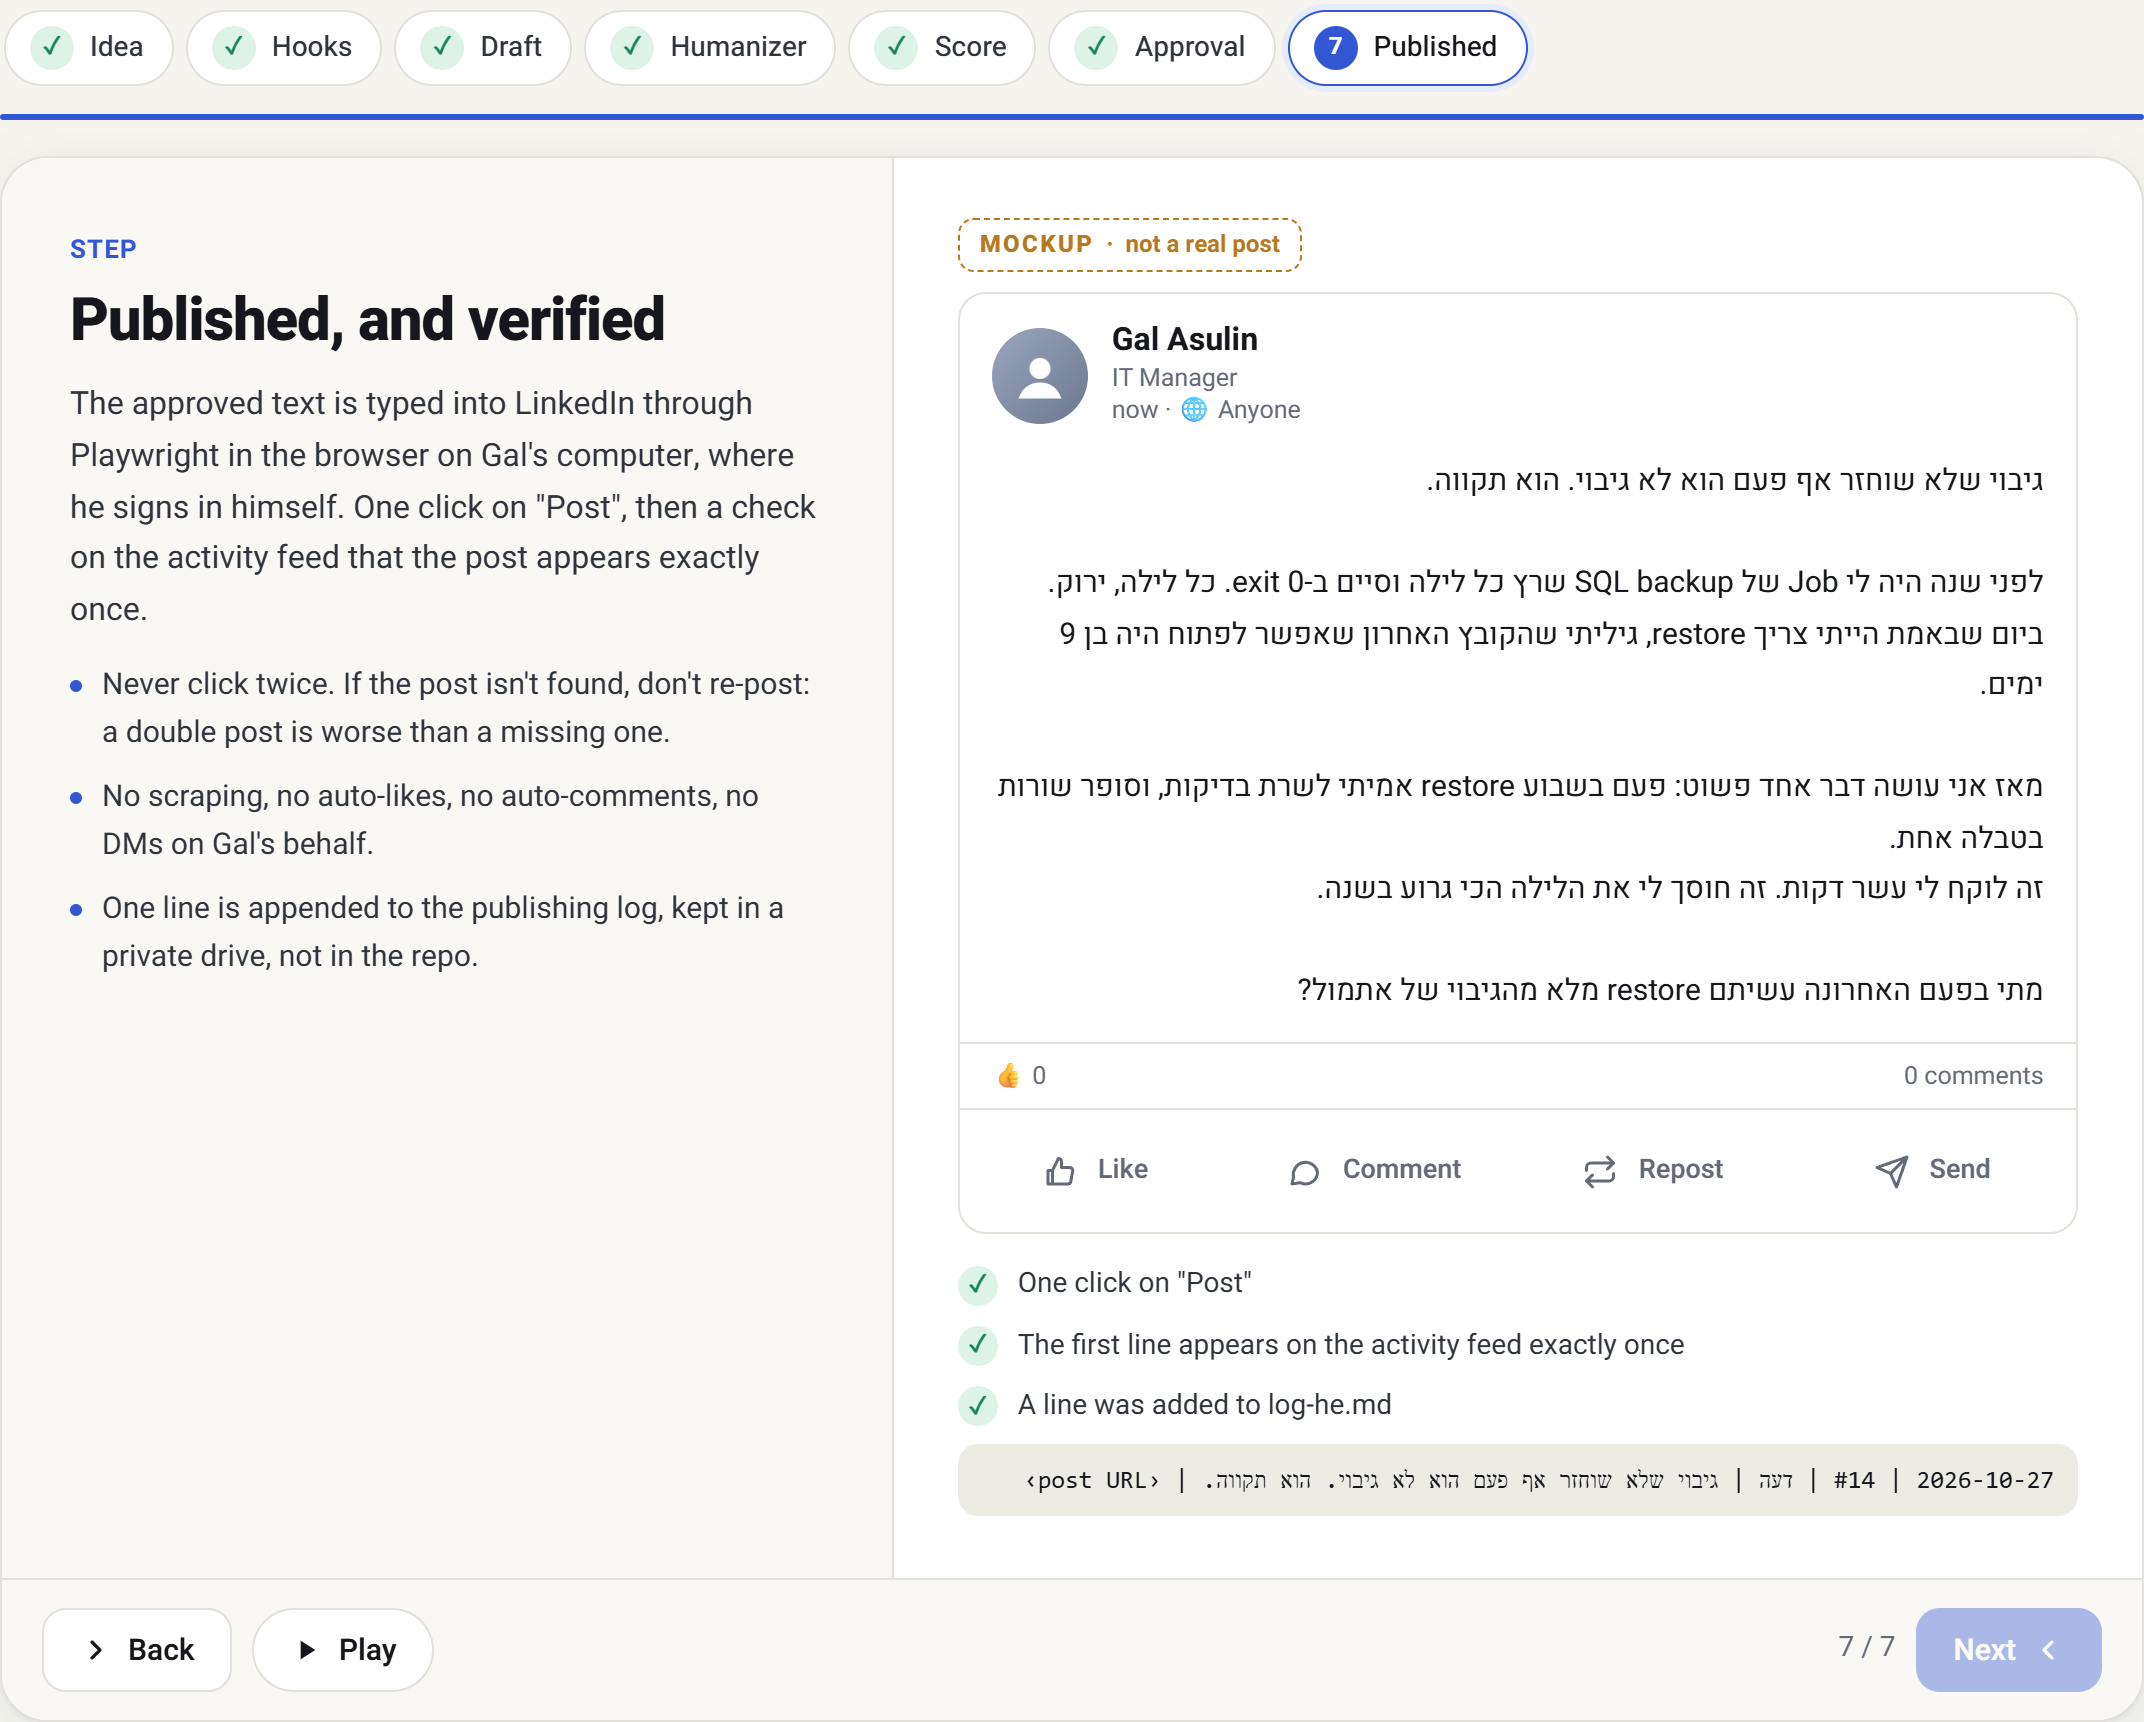
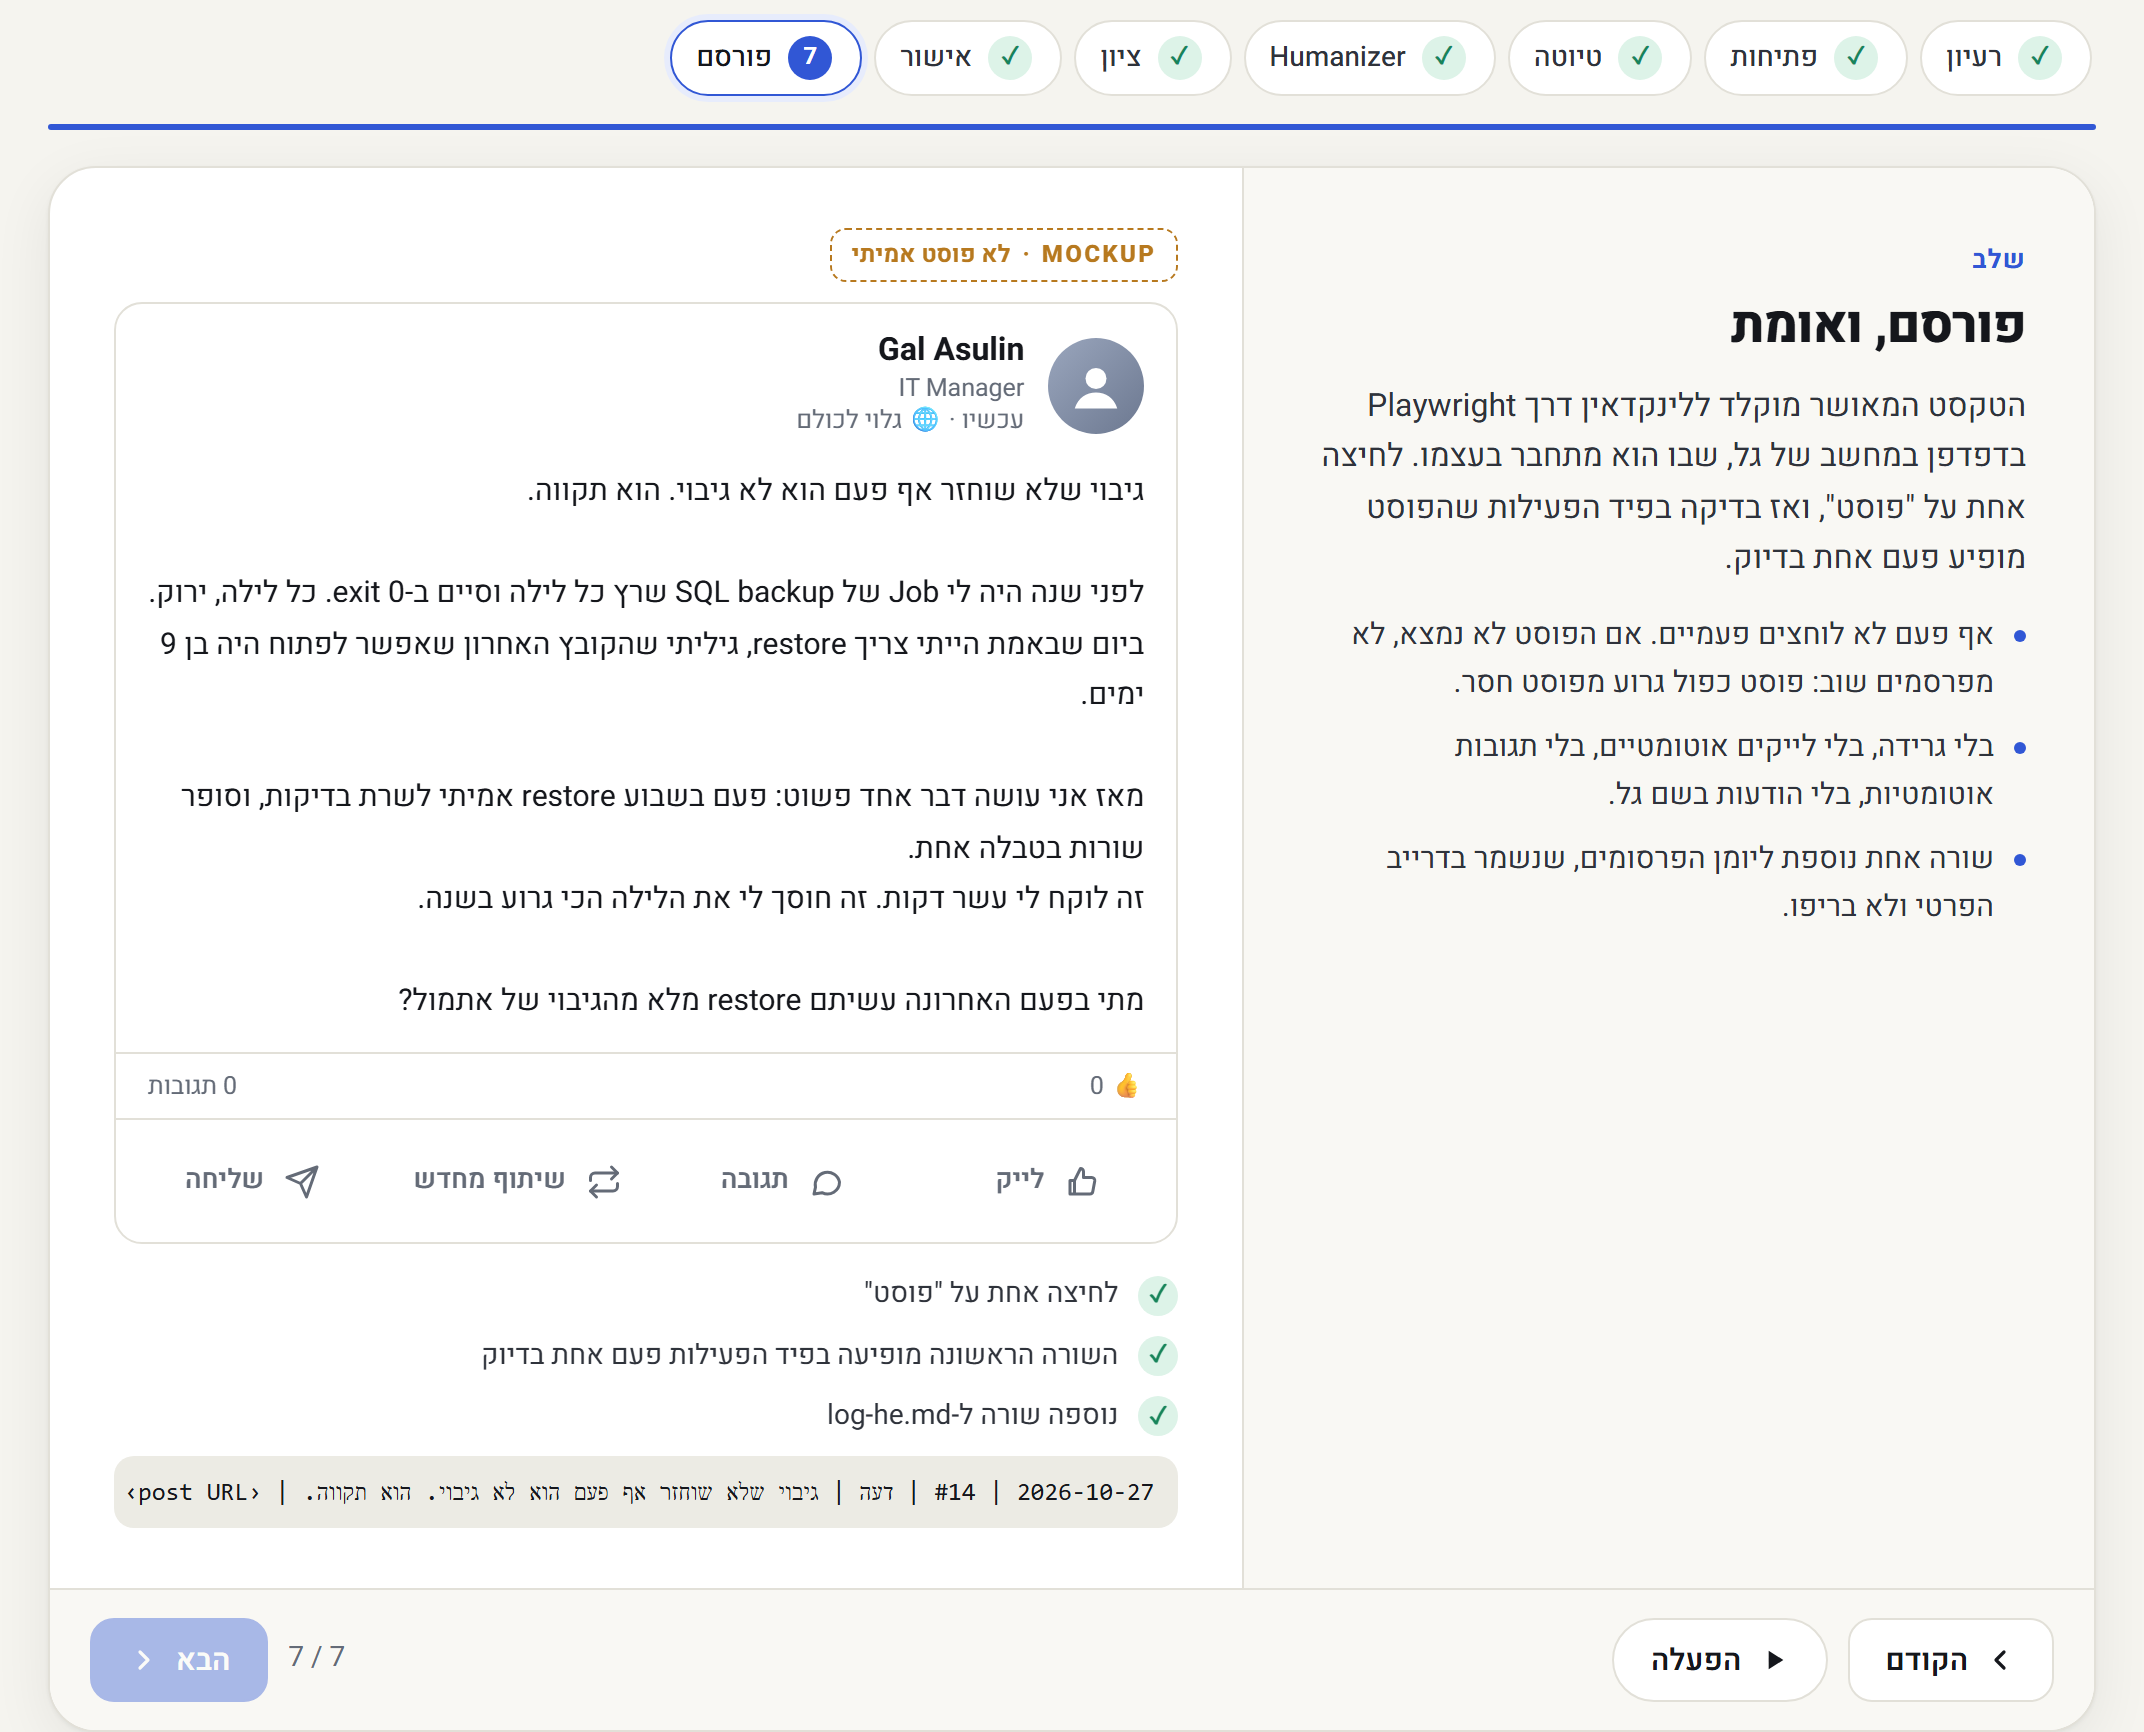
Re-capture the published step in the Hebrew UI

diff --git a/README.he.md b/README.he.md
@@ -45,7 +45,7 @@
 </tr>
 <tr>
 <td><a href="docs/assets/demo-4.png"><img src="docs/assets/demo-4.png" width="100%"></a><br><sub><b>כרטיס אישור</b> · חסום כל עוד נשאר placeholder של <code>{{</code></sub></td>
-<td><a href="docs/assets/demo-5.png"><img src="docs/assets/demo-5.png" width="100%"></a><br><sub><b>פורסם</b> · הדמיית פוסט, אימות אחד בפיד הפעילות (ממשק באנגלית)</sub></td>
+<td><a href="docs/assets/demo-5.png"><img src="docs/assets/demo-5.png" width="100%"></a><br><sub><b>פורסם</b> · הדמיית פוסט, אימות אחד בפיד הפעילות</sub></td>
 <td><a href="docs/assets/demo-6.png"><img src="docs/assets/demo-6.png" width="100%"></a><br><sub><b>מובייל</b> · הדמו ברוחב טלפון, מימין לשמאל</sub></td>
 </tr>
 </table>

diff --git a/README.md b/README.md
@@ -43,7 +43,7 @@
 </tr>
 <tr>
 <td><a href="docs/assets/demo-4.png"><img src="docs/assets/demo-4.png" width="100%"></a><br><sub><b>Approval card</b> · blocked while a <code>{{</code> placeholder is left</sub></td>
-<td><a href="docs/assets/demo-5.png"><img src="docs/assets/demo-5.png" width="100%"></a><br><sub><b>Published</b> · mock post, verified once on the activity feed (English UI)</sub></td>
+<td><a href="docs/assets/demo-5.png"><img src="docs/assets/demo-5.png" width="100%"></a><br><sub><b>Published</b> · mock post, verified once on the activity feed</sub></td>
 <td><a href="docs/assets/demo-6.png"><img src="docs/assets/demo-6.png" width="100%"></a><br><sub><b>Mobile</b> · the demo at phone width, RTL</sub></td>
 </tr>
 </table>
